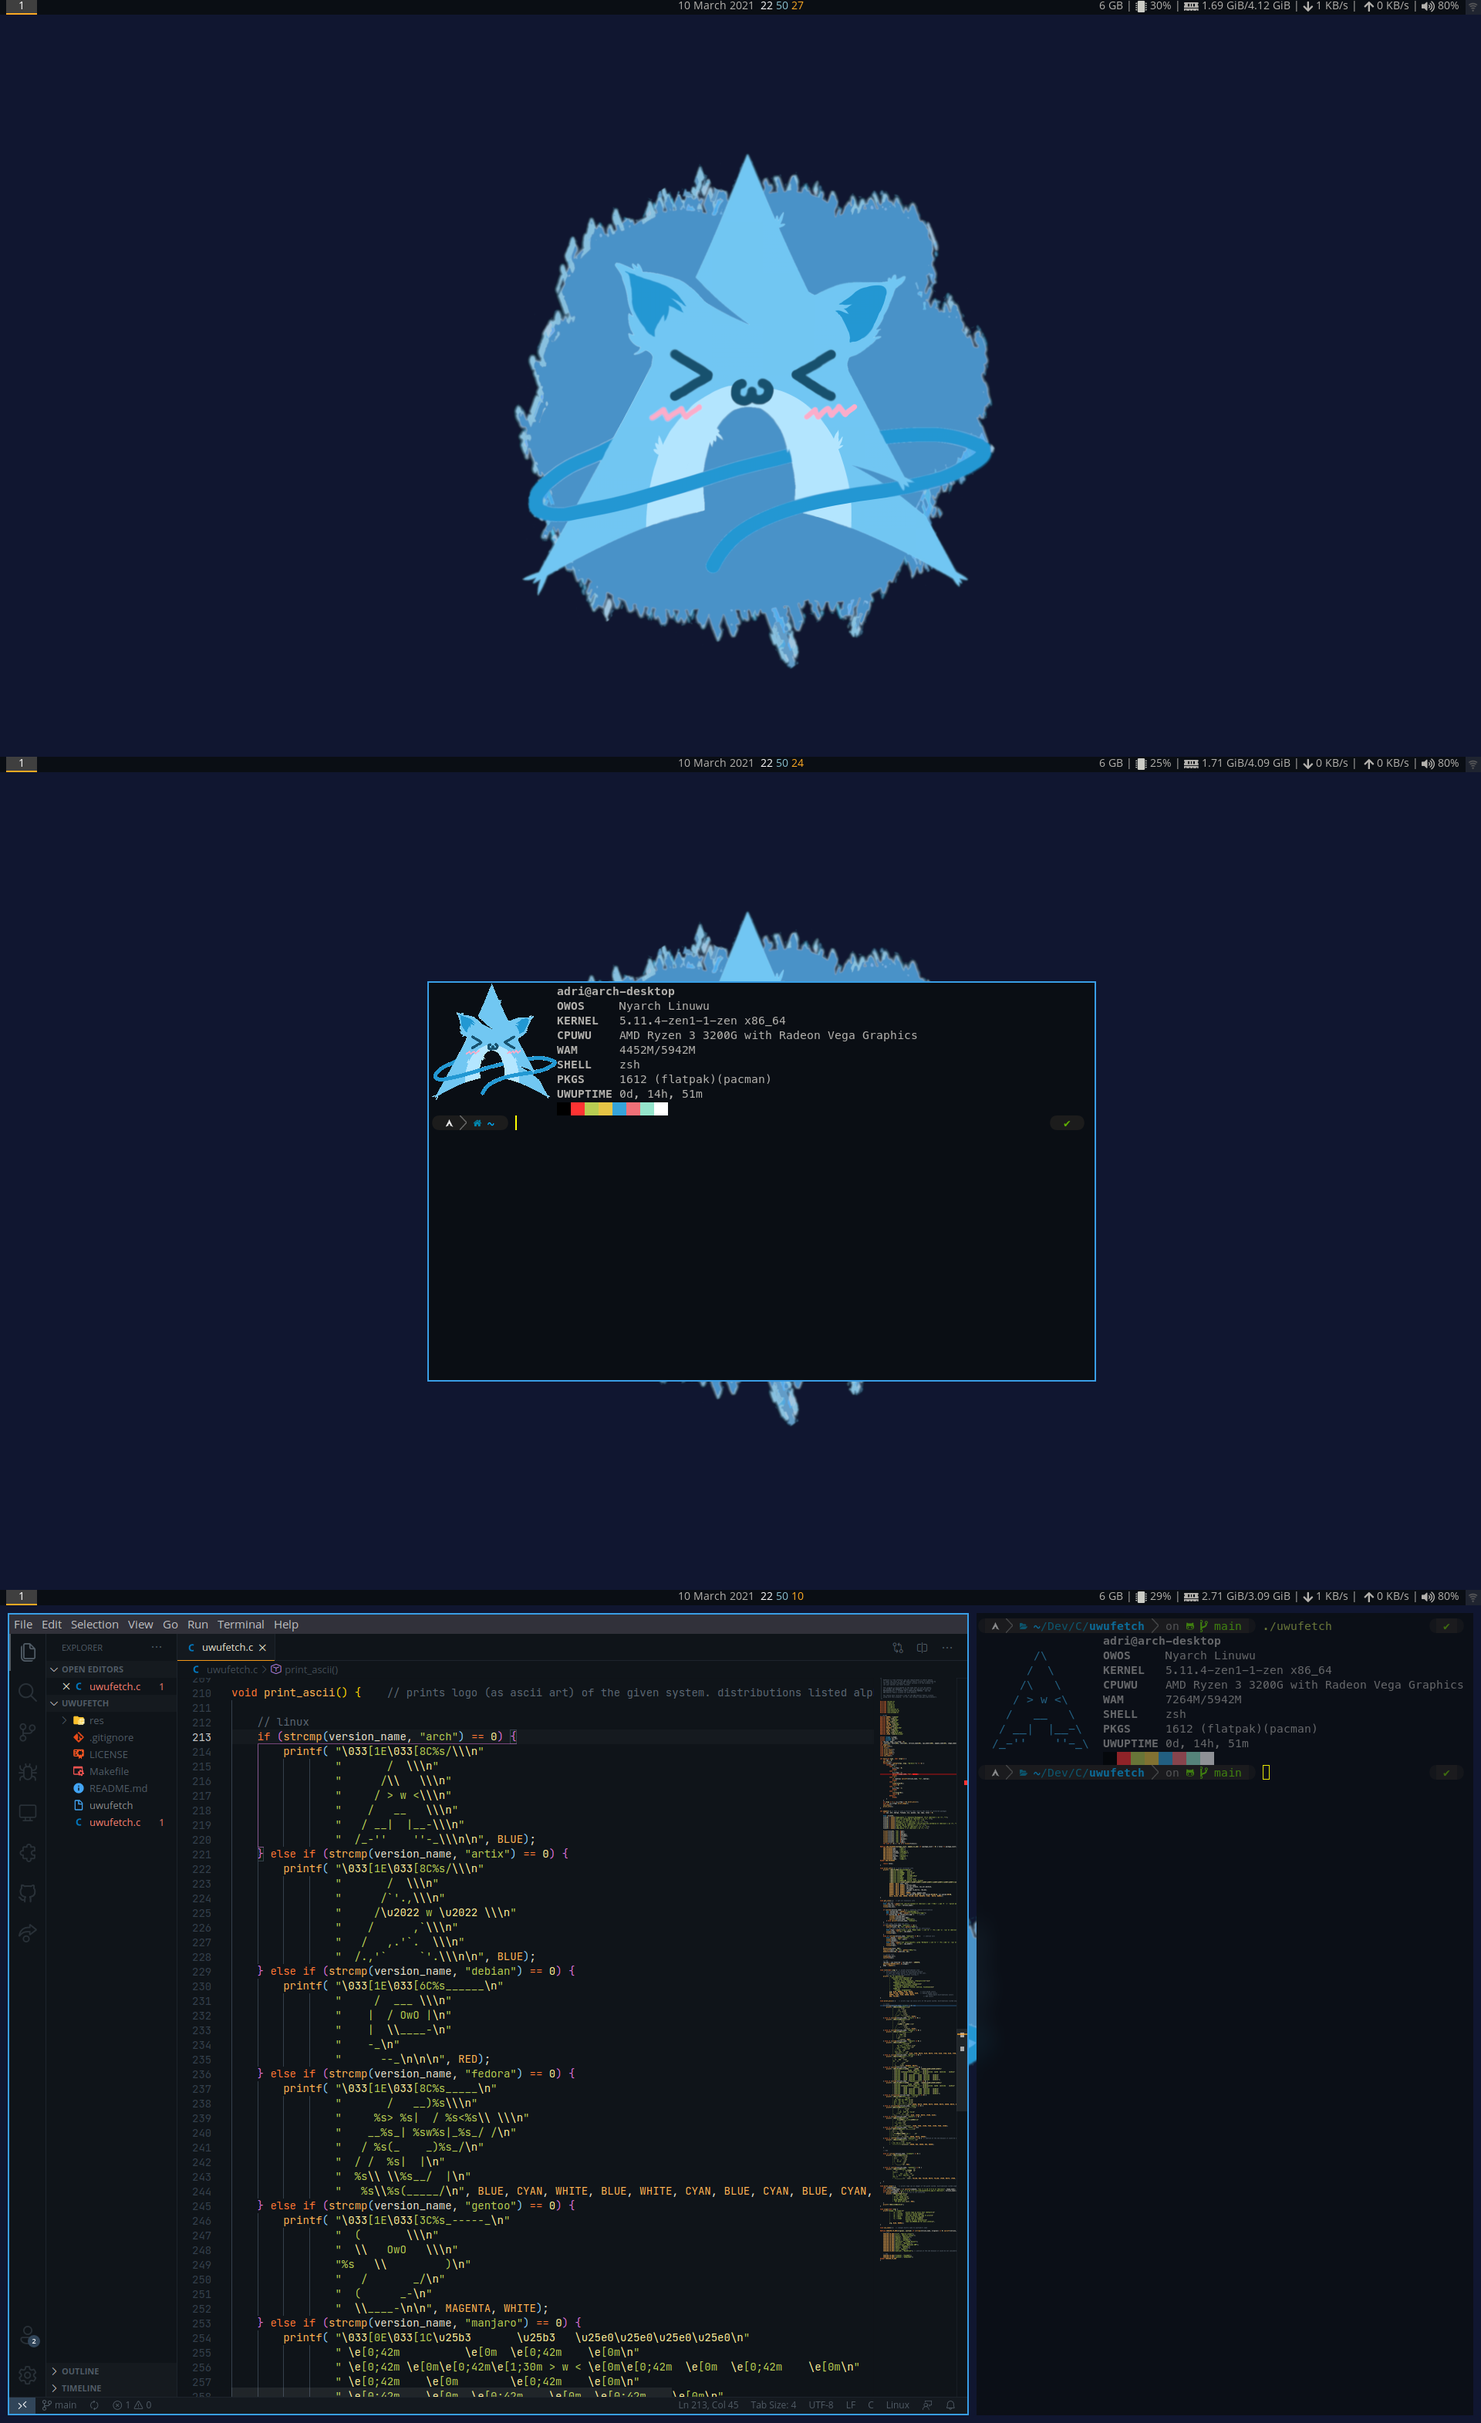
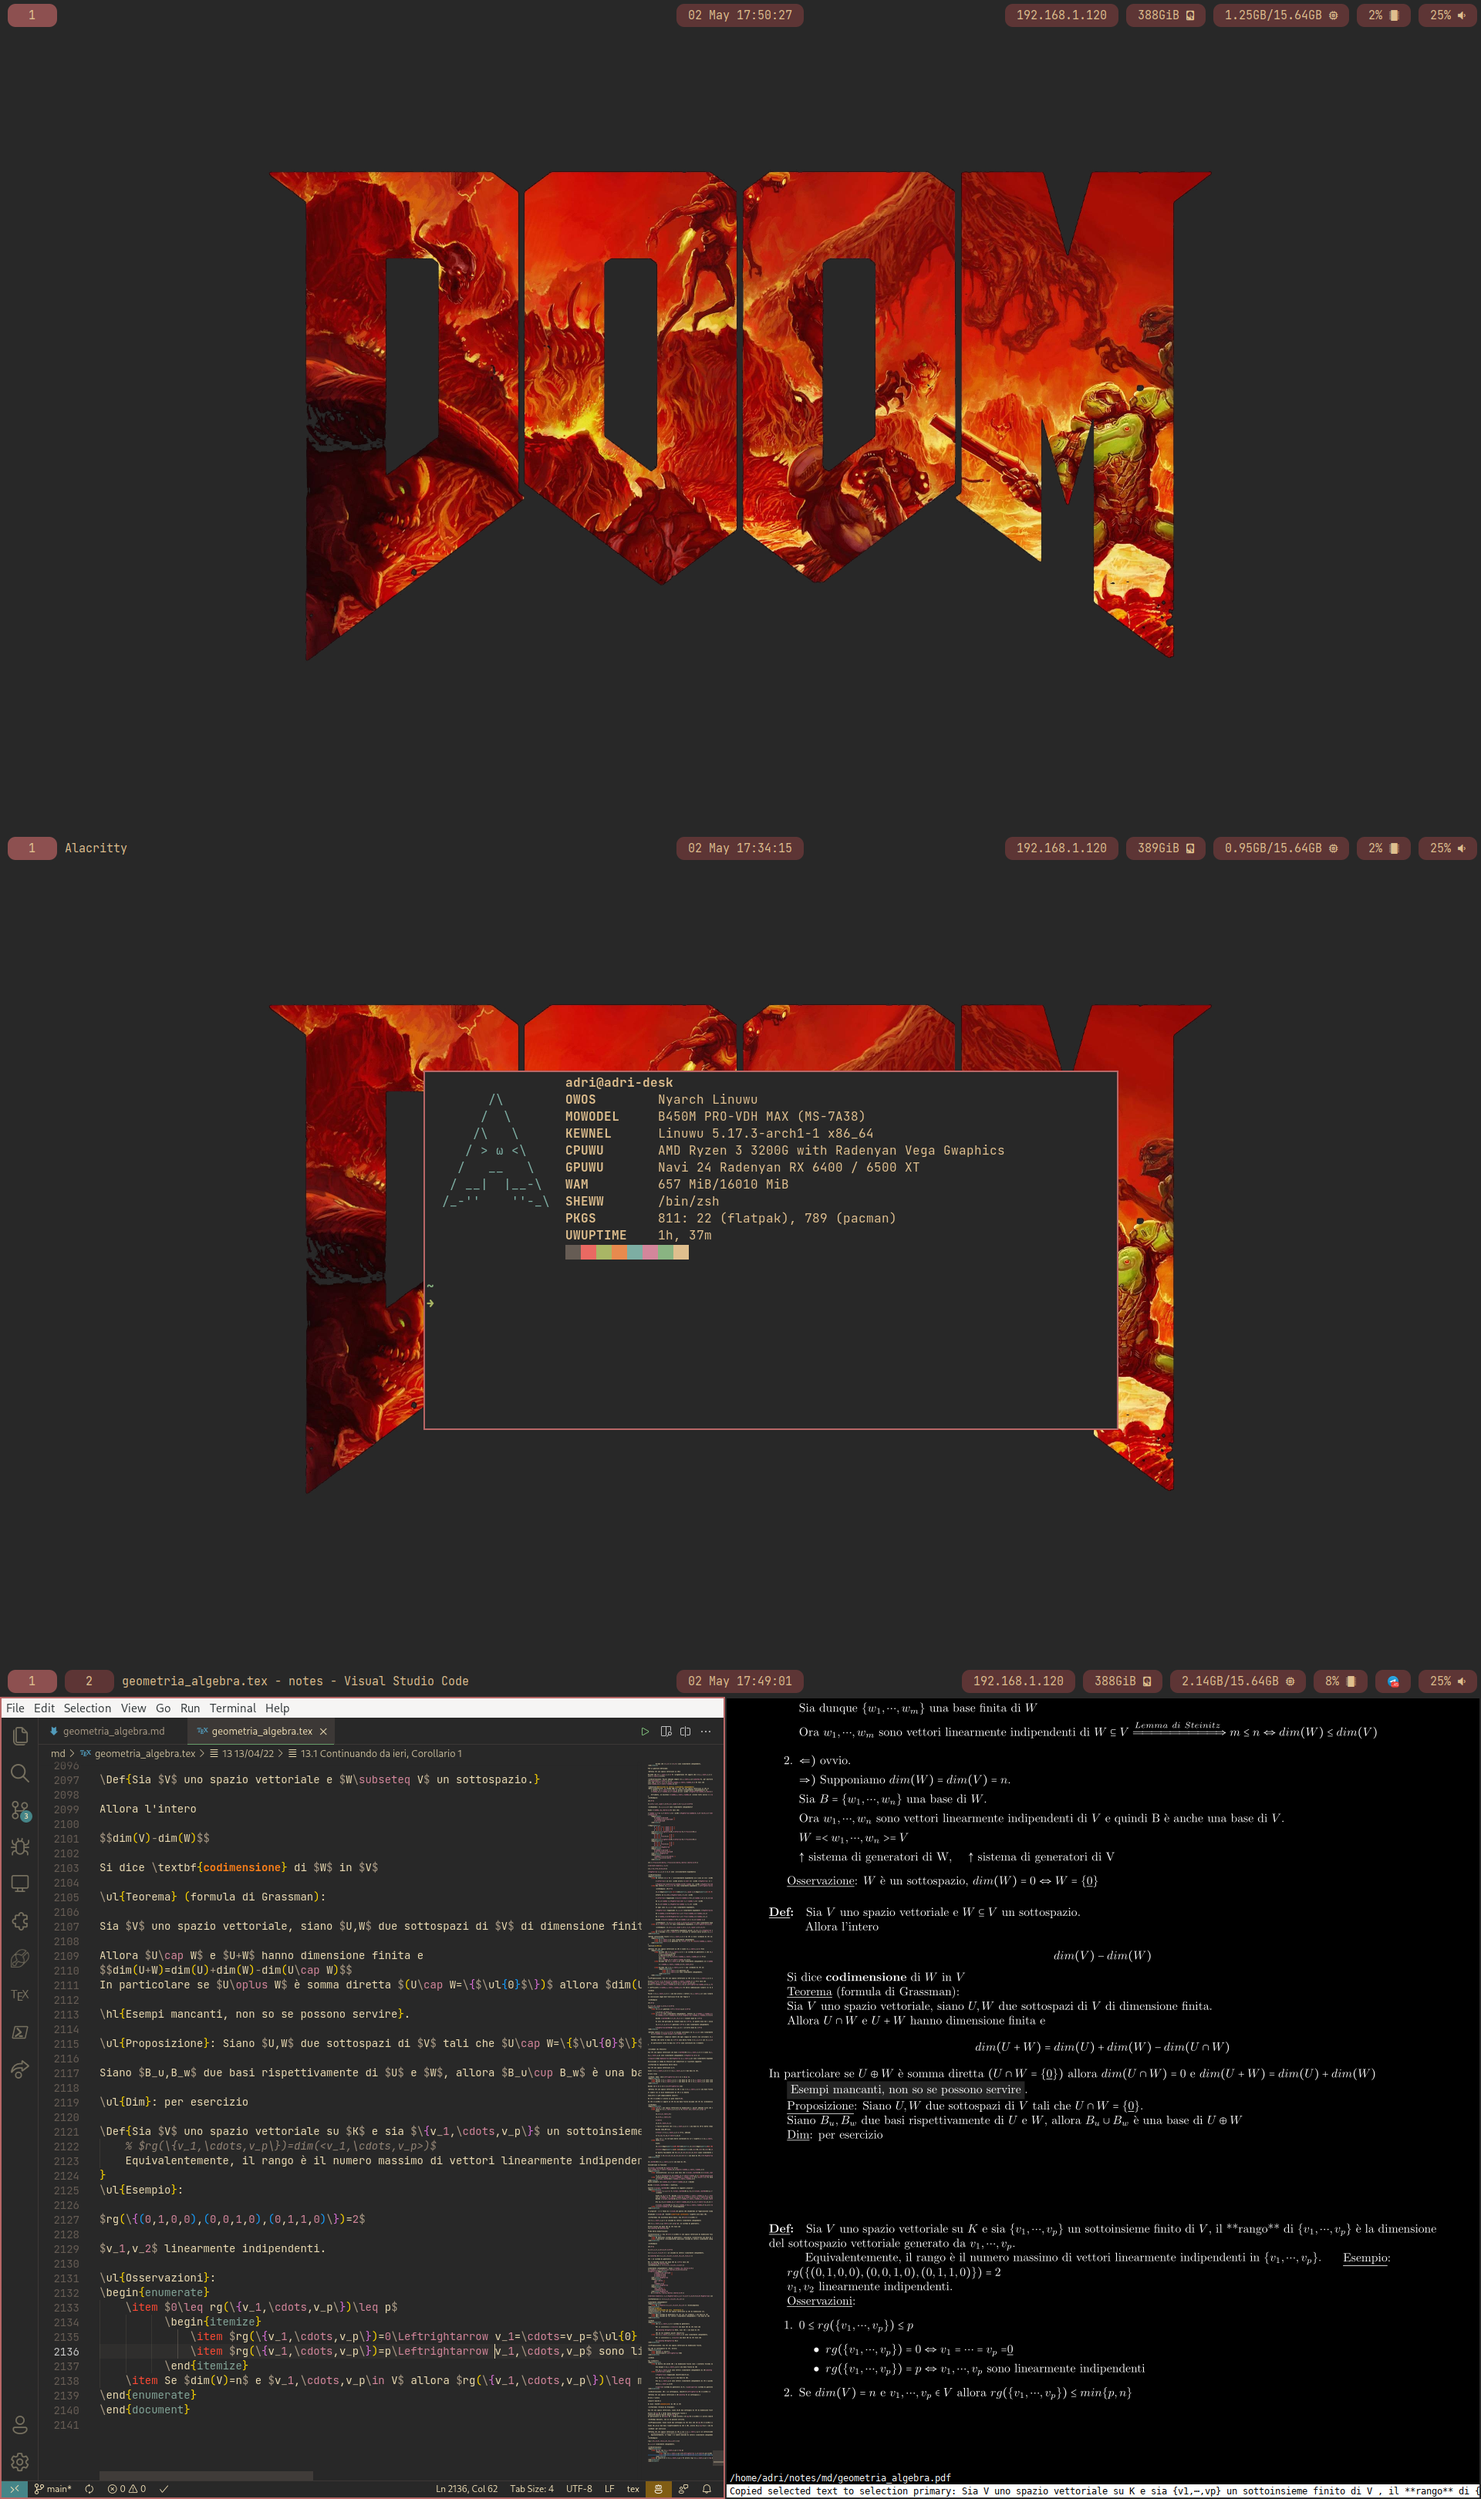
Updated readme, preview picture and installer

diff --git a/README.md b/README.md
@@ -2,13 +2,15 @@
 
 My .files, here is a preview:
 
-<!-- ![](https://raw.githubusercontent.com/TheDarkBug/DotFiles/main/dotfiles.png) -->
+![](https://raw.githubusercontent.com/TheDarkBug/DotFiles/main/dotfiles.png)
 
-## Dependances:
+## Programs and other resources used
 
 - WM: [sway](https://swaywm.org/)
 
 - Color scheme: [Gruvbox](https://github.com/morhetz/gruvbox)
+
+- Wallpaper: [doom eternal](https://cdn.wallpapersafari.com/45/94/AyVLsg.jpg)
 
 - Gtk theme: [Gruvbox](https://github.com/TheGreatMcPain/gruvbox-material-gtk)
 
